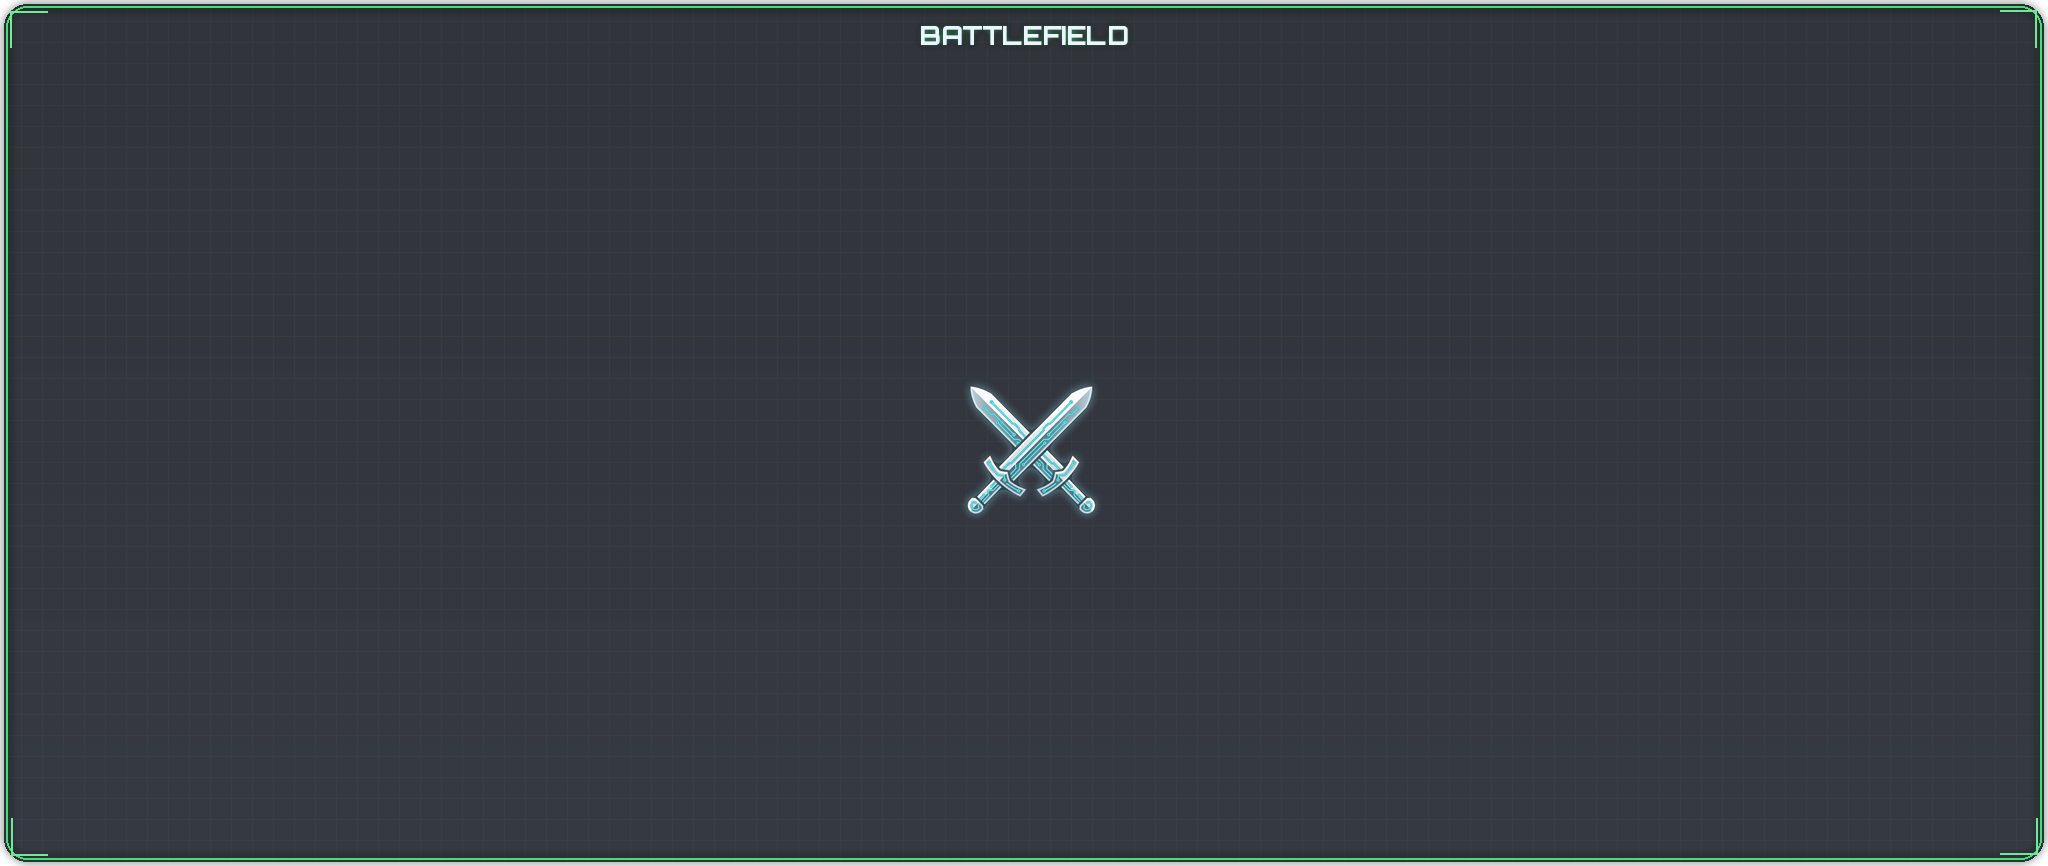
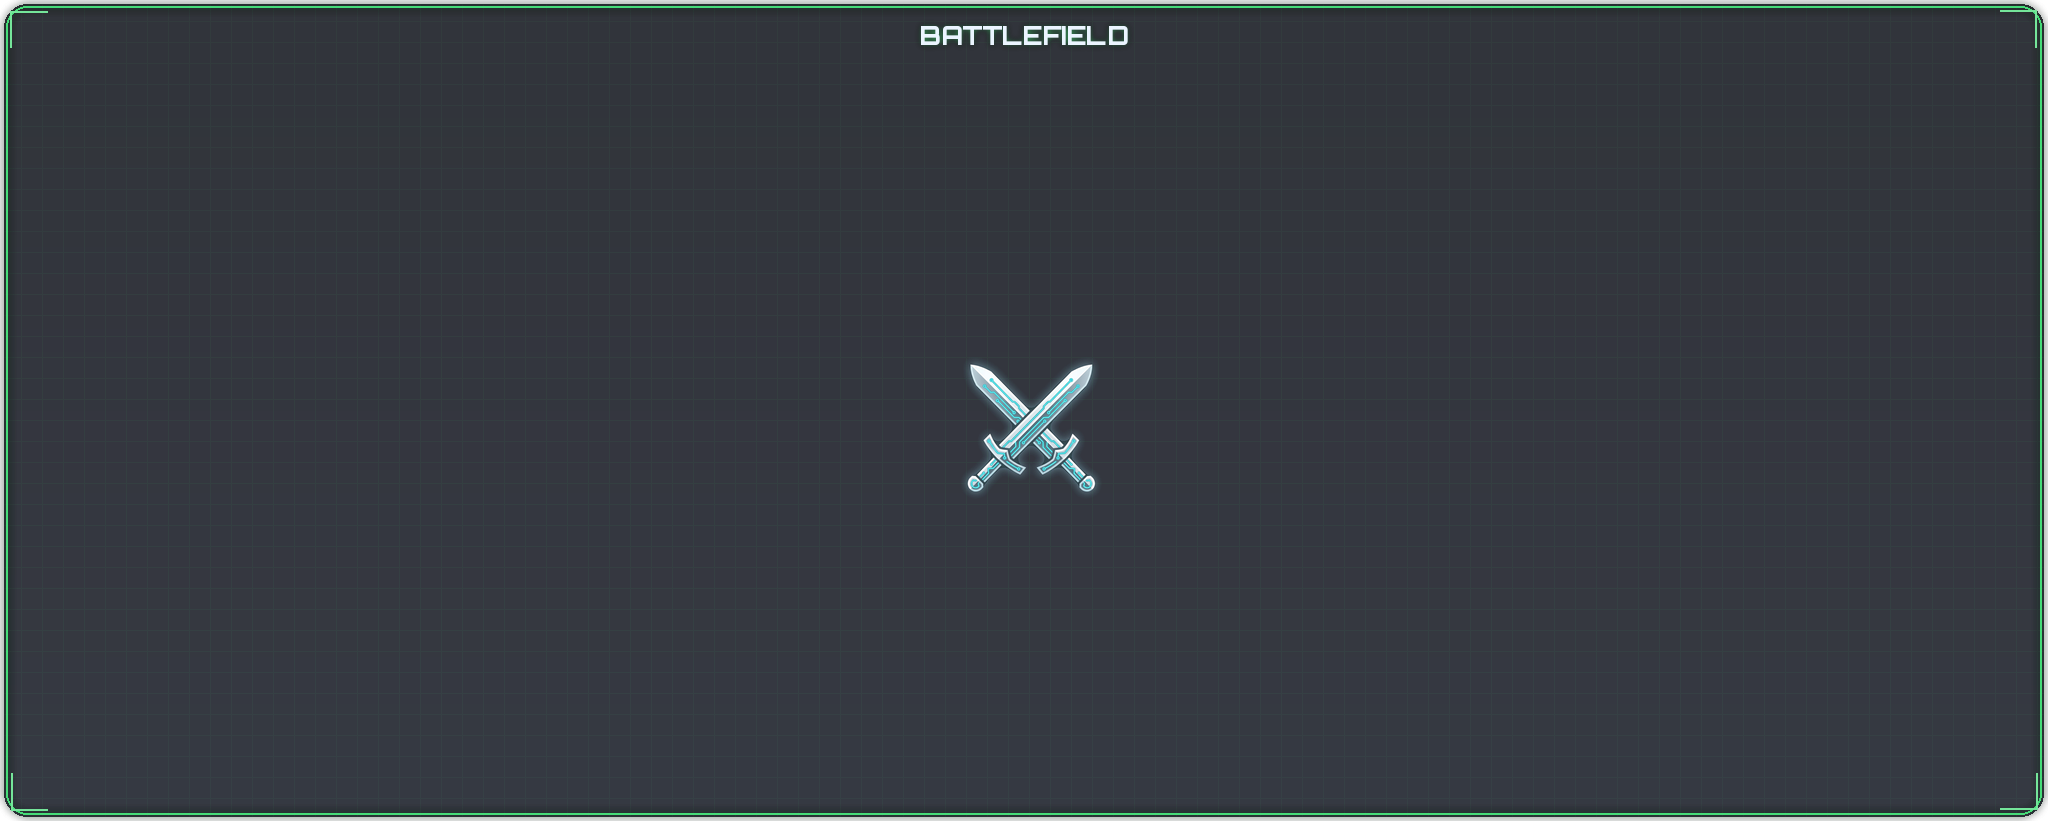
Live turn strips on the table

Changed region(s): [[0.0, 0.0, 1.0, 0.0609], [0.0, 0.9744, 1.0, 1.0], [0.4688, 0.4568, 0.5312, 0.609]]

diff --git a/tools/make_mat_art.py b/tools/make_mat_art.py
@@ -21,7 +21,7 @@ SEAT_RGB = {"White": (205, 212, 230), "Red": (230, 70, 80), "Green": (70, 220, 1
 AREAS = {
     "command1": (4.2, 5.5, "COMMANDER", None, 2.4),
     "command2": (4.2, 5.5, "PARTNER|OR BACKGROUND", None, 2.4),
-    "battlefield": (39, 16.5, "BATTLEFIELD", "battlefield.png", 3.4),
+    "battlefield": (39, 15.65, "BATTLEFIELD", "battlefield.png", 3.4),
     "lands": (39, 5.5, "LANDS", "lands.png", 2.6),
     "library": (6, 6.5, "LIBRARY", "library.png", 2.6),
     "graveyard": (6, 6.5, "GRAVEYARD", "graveyard.png", 2.6),
@@ -201,7 +201,34 @@ def build_turnbar(color):
     return out
 
 
+# Turn strip on the table (turns.lua): a neutral dark plate; the border
+# color, title and lit step are drawn on top live in the active player's
+# color. 30.4 x 1.6 table units at 60 px per unit.
+def build_turnstrip():
+    W, H = int(30.4 * 60), int(1.6 * 60)
+    img = Image.new("RGBA", (W, H), (0, 0, 0, 0))
+    mask = Image.new("L", (W, H), 0)
+    ImageDraw.Draw(mask).rounded_rectangle([2, 2, W - 3, H - 3], radius=20, fill=255)
+    panel = Image.new("RGBA", (W, H))
+    pd = ImageDraw.Draw(panel)
+    for y in range(H):
+        t = y / H
+        pd.line([(0, y), (W, y)], fill=(int(10 + 7 * t), int(13 + 8 * t), int(22 + 11 * t), 235))
+    img.paste(panel, (0, 0), mask)
+    grid = Image.new("RGBA", (W, H), (0, 0, 0, 0))
+    g = ImageDraw.Draw(grid)
+    for gx in range(24, W, 24):
+        g.line([(gx, 0), (gx, H)], fill=(120, 160, 200, 14))
+    img.alpha_composite(Image.composite(grid, Image.new("RGBA", (W, H)), mask))
+    # divider between the title and the steps
+    ImageDraw.Draw(img).line([(int(6.8 * 60), 18), (int(6.8 * 60), H - 18)], fill=(120, 160, 200, 90), width=2)
+    out = os.path.join(ROOT, "assets", "ui", "turnstrip.png")
+    img.save(out)
+    return out
+
+
 if __name__ == "__main__":
+    print(build_turnstrip())
     for color in SEAT_RGB:
         print(build_turnbar(color))
     for color in SEAT_RGB:
